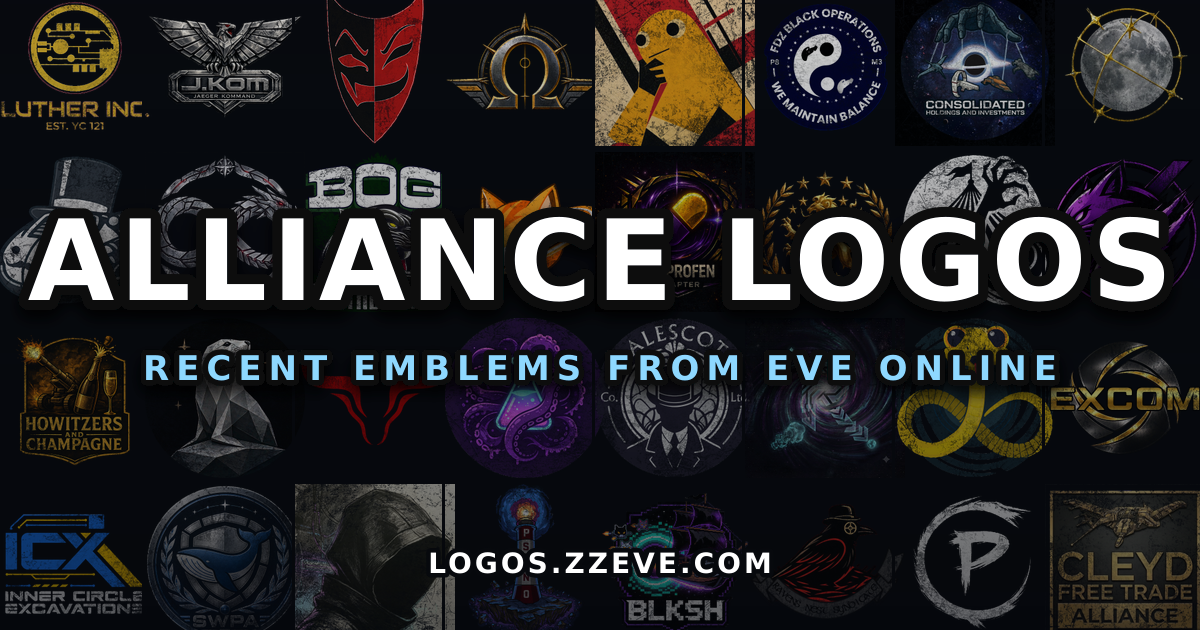
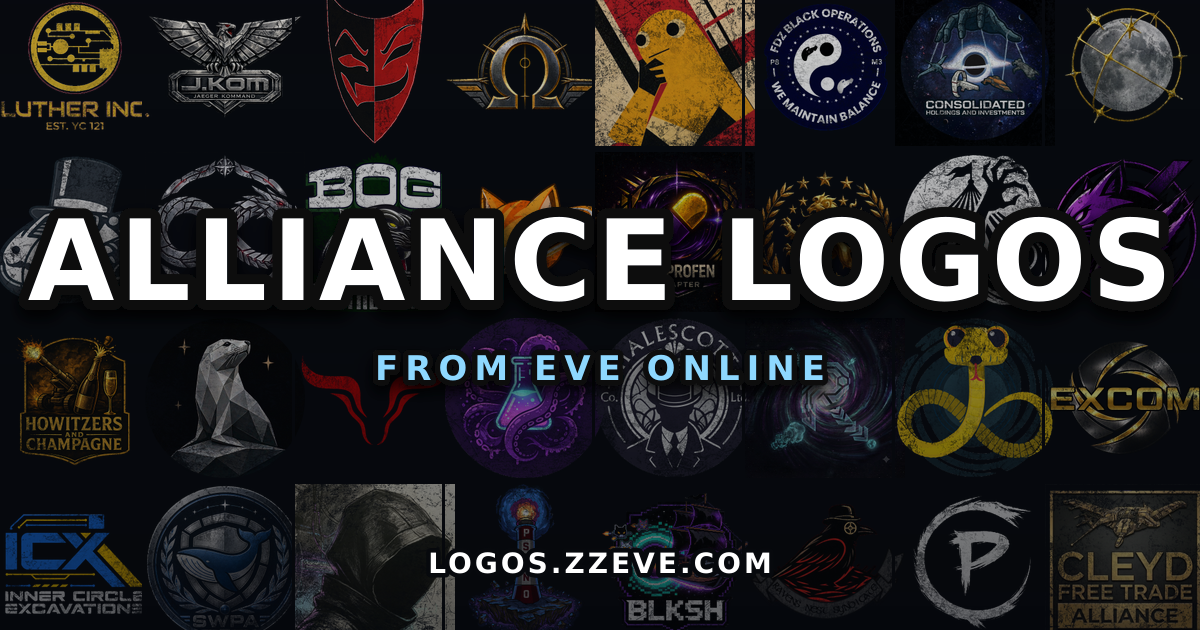
just 'from eve online'

Changed region(s): [[0.1233, 0.5429, 0.8942, 0.6333]]

diff --git a/docs/index.html b/docs/index.html
@@ -13,8 +13,8 @@
   <meta property="og:url" content="https://logos.zzeve.com/">
   <meta property="og:title" content="Alliance Logos">
   <meta property="og:description" content="Discover the newest custom alliance logos from EVE Online.">
-  <meta property="og:image" content="https://logos.zzeve.com/opengraph.png?v=0d22d47a222c">
-  <meta property="og:image:secure_url" content="https://logos.zzeve.com/opengraph.png?v=0d22d47a222c">
+  <meta property="og:image" content="https://logos.zzeve.com/opengraph.png?v=aaf94d5a8672">
+  <meta property="og:image:secure_url" content="https://logos.zzeve.com/opengraph.png?v=aaf94d5a8672">
   <meta property="og:image:type" content="image/png">
   <meta property="og:image:width" content="1200">
   <meta property="og:image:height" content="630">
@@ -22,7 +22,7 @@
   <meta name="twitter:card" content="summary_large_image">
   <meta name="twitter:title" content="Alliance Logos">
   <meta name="twitter:description" content="Discover the newest custom alliance logos from EVE Online.">
-  <meta name="twitter:image" content="https://logos.zzeve.com/opengraph.png?v=0d22d47a222c">
+  <meta name="twitter:image" content="https://logos.zzeve.com/opengraph.png?v=aaf94d5a8672">
   <meta name="twitter:image:alt" content="A collage of recent EVE Online alliance logos">
   <title>Alliance Logos</title>
   <link href="css/bootstrap-combined.min.2.2.2.css" rel="stylesheet">

diff --git a/generate-opengraph.js b/generate-opengraph.js
@@ -57,7 +57,7 @@ function textOverlay() {
 			<g text-anchor="middle" font-family="DejaVu Sans, Arial, sans-serif" font-weight="800"
 				stroke="#07090d" stroke-linejoin="round" paint-order="stroke fill" filter="url(#shadow)">
 				<text x="600" y="300" font-size="112" letter-spacing="5" stroke-width="20" fill="#fff">ALLIANCE LOGOS</text>
-				<text x="600" y="380" font-size="34" letter-spacing="7" stroke-width="11" fill="#8ed8ff">ALL THE LOGOS FROM EVE ONLINE</text>
+				<text x="600" y="380" font-size="34" letter-spacing="7" stroke-width="11" fill="#8ed8ff">FROM EVE ONLINE</text>
 			</g>
 			<text x="600" y="573" text-anchor="middle" font-family="DejaVu Sans, Arial, sans-serif"
 				font-size="28" font-weight="700" letter-spacing="3" fill="#fff" stroke="#07090d"
